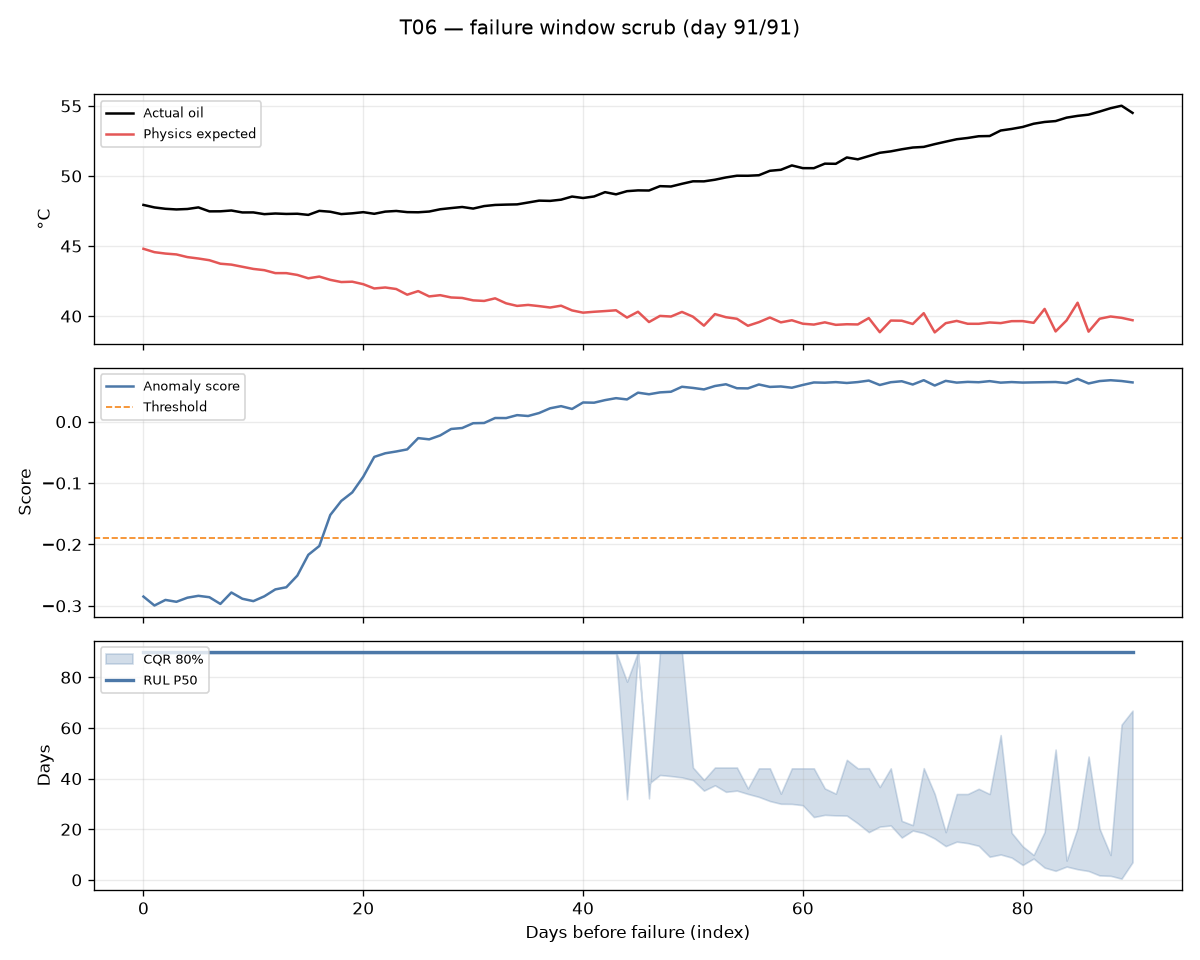
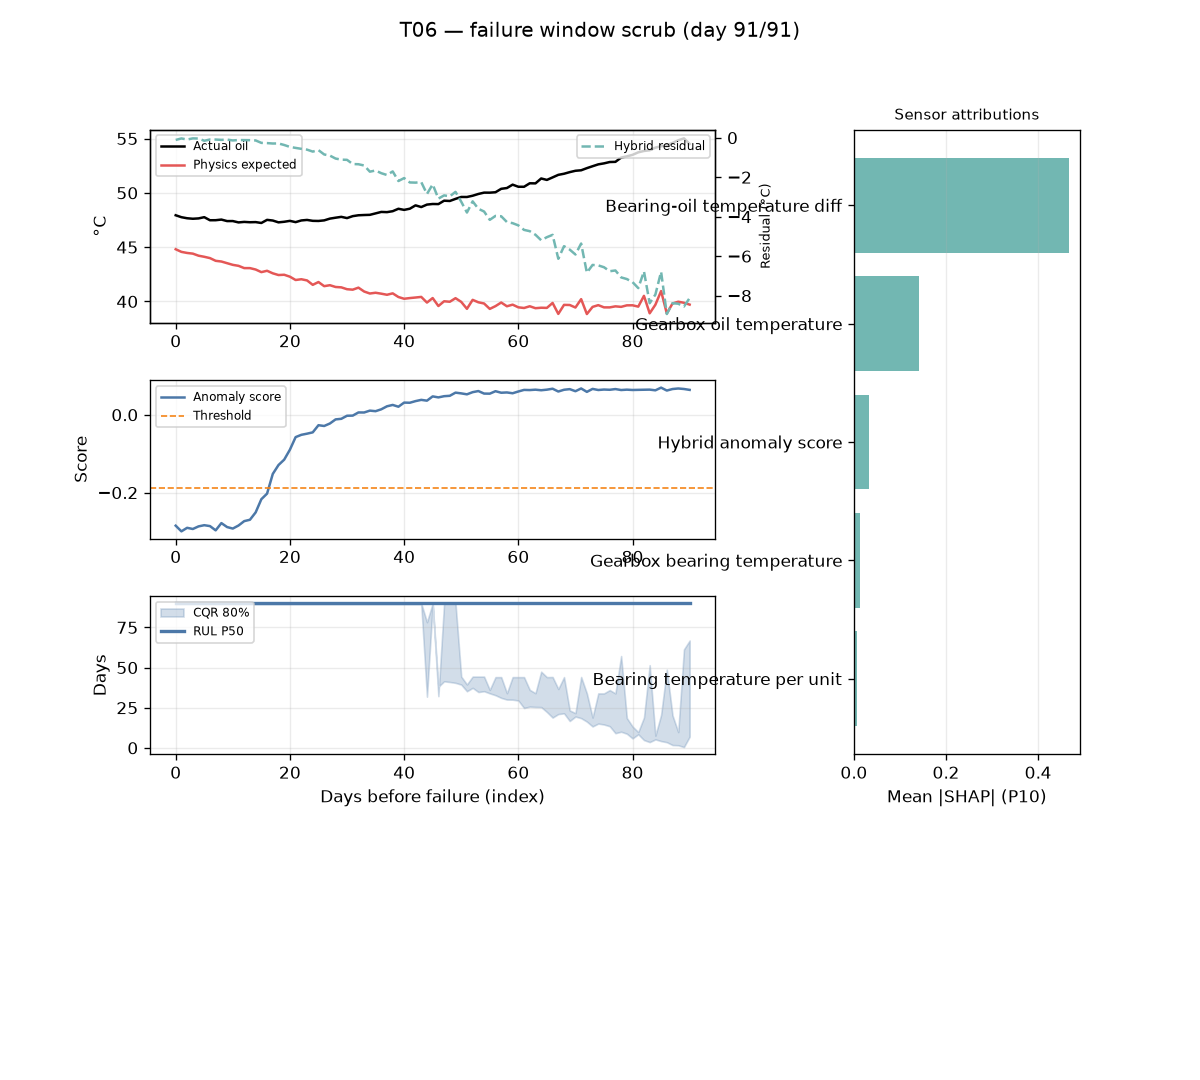
Serve P10 SHAP attributions and refresh dashboard README figures.

diff --git a/service/scripts/generate_dashboard_gif.py b/service/scripts/generate_dashboard_gif.py
@@ -10,38 +10,60 @@ import pandas as pd
 from PIL import Image
 
 ROOT = Path(__file__).resolve().parents[2]
-TIMELINE = Path(__file__).resolve().parents[1] / "models" / "timeline_demo.parquet"
+MODELS = Path(__file__).resolve().parents[1] / "models"
+TIMELINE = MODELS / "timeline_demo.parquet"
+SHAP_CSV = MODELS / "shap_sensor_ranking.csv"
 OUT_PNG = ROOT / "docs" / "figures" / "twin_dashboard.png"
 OUT_GIF = ROOT / "docs" / "figures" / "twin_dashboard.gif"
 
 
-def _frame(df: pd.DataFrame, *, day_idx: int, dpi: int = 100) -> Image.Image:
+def _p10_attributions() -> pd.DataFrame:
+    ranking = pd.read_csv(SHAP_CSV)
+    work = ranking.loc[ranking["learner"] == "p10"].sort_values("rank").head(5)
+    return work.iloc[::-1]
+
+
+def _frame(
+    df: pd.DataFrame,
+    *,
+    day_idx: int,
+    attrs: pd.DataFrame,
+    dpi: int = 100,
+) -> Image.Image:
     view = df.iloc[: day_idx + 1]
     if view.empty:
         view = df.iloc[:1]
     dates = np.arange(len(view))
     threshold = float(view["anomaly_threshold"].iloc[0])
 
-    fig, axes = plt.subplots(3, 1, figsize=(10, 8), dpi=dpi, sharex=True)
+    fig = plt.figure(figsize=(10, 9), dpi=dpi)
     fig.patch.set_facecolor("#ffffff")
+    gs = fig.add_gridspec(4, 2, height_ratios=[1.1, 0.9, 0.9, 0.85], width_ratios=[3, 1.2], hspace=0.35, wspace=0.35)
     fig.suptitle(
         f"{view['turbine_id'].iloc[0]} — failure window scrub (day {day_idx + 1}/{len(df)})",
         fontsize=12,
     )
 
-    ax0, ax1, ax2 = axes
+    ax0 = fig.add_subplot(gs[0, 0])
     ax0.plot(dates, view["oil_temp_actual"], color="black", label="Actual oil")
     ax0.plot(dates, view["oil_temp_physics"], color="#E45756", label="Physics expected")
     ax0.set_ylabel("°C")
-    ax0.legend(loc="upper left", fontsize=8)
+    ax0.legend(loc="upper left", fontsize=7)
     ax0.grid(alpha=0.25)
+    if "oil_residual" in view.columns:
+        ax0r = ax0.twinx()
+        ax0r.plot(dates, view["oil_residual"], color="#72B7B2", linestyle="--", label="Hybrid residual")
+        ax0r.set_ylabel("Residual (°C)", fontsize=8)
+        ax0r.legend(loc="upper right", fontsize=7)
 
+    ax1 = fig.add_subplot(gs[1, 0])
     ax1.plot(dates, view["anomaly_score"], color="#4C78A8", label="Anomaly score")
     ax1.axhline(threshold, color="#F58518", linestyle="--", linewidth=1, label="Threshold")
     ax1.set_ylabel("Score")
-    ax1.legend(loc="upper left", fontsize=8)
+    ax1.legend(loc="upper left", fontsize=7)
     ax1.grid(alpha=0.25)
 
+    ax2 = fig.add_subplot(gs[2, 0])
     if "rul_p50" in view.columns:
         ax2.fill_between(
             dates,
@@ -54,8 +76,15 @@ def _frame(df: pd.DataFrame, *, day_idx: int, dpi: int = 100) -> Image.Image:
         ax2.plot(dates, view["rul_p50"], color="#4C78A8", linewidth=2, label="RUL P50")
     ax2.set_ylabel("Days")
     ax2.set_xlabel("Days before failure (index)")
-    ax2.legend(loc="upper left", fontsize=8)
+    ax2.legend(loc="upper left", fontsize=7)
     ax2.grid(alpha=0.25)
+
+    ax3 = fig.add_subplot(gs[0:3, 1])
+    y_labels = [str(s)[:28] for s in attrs["sensor"]]
+    ax3.barh(y_labels, attrs["mean_abs_shap"], color="#72B7B2")
+    ax3.set_xlabel("Mean |SHAP| (P10)")
+    ax3.set_title("Sensor attributions", fontsize=9)
+    ax3.grid(axis="x", alpha=0.25)
 
     fig.tight_layout(rect=(0, 0, 1, 0.96))
     fig.canvas.draw()
@@ -67,17 +96,20 @@ def _frame(df: pd.DataFrame, *, day_idx: int, dpi: int = 100) -> Image.Image:
 def main() -> None:
     if not TIMELINE.exists():
         raise SystemExit(f"Missing {TIMELINE}; run service/scripts/export_models.py first")
+    if not SHAP_CSV.exists():
+        raise SystemExit(f"Missing {SHAP_CSV}; run service/scripts/export_models.py first")
     df = pd.read_parquet(TIMELINE)
+    attrs = _p10_attributions()
     t06 = df.loc[df["turbine_id"] == "T06"].sort_values("date").reset_index(drop=True)
     if t06.empty:
         t06 = df.sort_values("date").reset_index(drop=True)
 
     OUT_PNG.parent.mkdir(parents=True, exist_ok=True)
-    full = _frame(t06, day_idx=len(t06) - 1, dpi=120)
+    full = _frame(t06, day_idx=len(t06) - 1, attrs=attrs, dpi=120)
     full.save(OUT_PNG)
 
     indices = np.linspace(5, len(t06) - 1, num=min(8, len(t06)), dtype=int)
-    frames = [_frame(t06, day_idx=int(i)) for i in indices]
+    frames = [_frame(t06, day_idx=int(i), attrs=attrs) for i in indices]
     frames[0].save(
         OUT_GIF,
         save_all=True,

diff --git a/service/tests/test_api.py b/service/tests/test_api.py
@@ -80,6 +80,8 @@ def test_twin_rul_endpoint(models_dir: Path):
     payload = response.json()
     assert payload["rul_p10"] <= payload["rul_p50"] <= payload["rul_p90"]
     assert len(payload["attributions"]) == 5
+    assert all(item["learner"] == "p10" for item in payload["attributions"])
+    assert any(item["mean_abs_shap"] > 0 for item in payload["attributions"])
     assert payload["cqr80_lo"] <= payload["cqr80_hi"]
 
 

diff --git a/service/dashboard/app.py b/service/dashboard/app.py
@@ -122,7 +122,7 @@ if {"rul_p50", "cqr80_lo", "cqr80_hi"}.issubset(chart_df.columns):
 else:
     st.info("RUL columns missing from timeline export.")
 
-st.subheader("Sensor attributions (global P50 SHAP ranks)")
+st.subheader("Sensor attributions (global P10 mean |SHAP|)")
 try:
     attrs = pd.DataFrame(fetch_attributions())
     bar = (

diff --git a/service/src/twin_service/inference.py b/service/src/twin_service/inference.py
@@ -112,7 +112,7 @@ def _apply_conformal(
 def top_sensor_attributions(
     ranking: pd.DataFrame,
     *,
-    learner: str = "p50",
+    learner: str = "p10",
     limit: int = 5,
 ) -> list[SensorAttribution]:
     work = ranking.loc[ranking["learner"] == learner].sort_values("rank")

diff --git a/README.md b/README.md
@@ -1,6 +1,6 @@
 # wind-digital-twin
 
-Hybrid **digital twin** capstone (**v1.0.0**) for a wind-turbine **gearbox/drivetrain thermal** path: EDP SCADA → lumped thermal ODE → **learned residual corrector** → **hybrid-residual anomaly detector** → **probabilistic gearbox RUL** (P10/P50/P90 + MAPIE conformal bands) → **TreeSHAP sensor explanations** → **FastAPI + Streamlit** serving. RUL training and LOFO evaluation live in [grid-gnn-faults](https://github.com/mehmetertac/grid-gnn-faults); this repo ships the Week 10 physics path and the deployment layer.
+Hybrid **digital twin** capstone (**v1.0.0**) for a wind-turbine **gearbox/drivetrain thermal** path: EDP SCADA → lumped thermal ODE → **learned residual corrector** → **hybrid-residual anomaly detector** → **probabilistic gearbox RUL** (P10/P50/P90 + MAPIE conformal bands) → **TreeSHAP sensor explanations** → **FastAPI + Streamlit** serving. RUL training and LOFO evaluation live in [grid-gnn-faults-2](https://github.com/mehmetertac/grid-gnn-faults-2); this repo ships the Week 10 physics path and the deployment layer.
 
 Full taxonomy, fidelity levels, and pipeline diagram: **[docs/ARCHITECTURE.md](docs/ARCHITECTURE.md)**.
 
@@ -44,7 +44,7 @@ flowchart LR
     shap --> svc
 ```
 
-Week 10 scoring path: [`scripts/run_twin_pass.py`](scripts/run_twin_pass.py) → [`eval/twin_pass.py`](src/wind_digital_twin/eval/twin_pass.py). End-to-end RUL timeline (requires `pip install -e path/to/grid-gnn-faults`): [`scripts/run_twin.py`](https://github.com/mehmetertac/grid-gnn-faults/blob/main/scripts/run_twin.py) in grid-gnn-faults.
+Week 10 scoring path: [`scripts/run_twin_pass.py`](scripts/run_twin_pass.py) → [`eval/twin_pass.py`](src/wind_digital_twin/eval/twin_pass.py). End-to-end RUL timeline (requires `pip install -e path/to/grid-gnn-faults-2`): [`scripts/run_twin.py`](https://github.com/mehmetertac/grid-gnn-faults-2/blob/main/scripts/run_twin.py) in grid-gnn-faults-2.
 
 ## End-to-end twin timeline (T06)
 
@@ -79,7 +79,7 @@ Pre-failure **degradation** shows in the timeline residuals and anomaly score, n
 
 ## Gearbox RUL (probabilistic + conformal)
 
-Daily aggregates of hybrid residuals, anomaly score, and θ features feed LightGBM quantiles at **P10/P50/P90**, widened with **MAPIE CQR** at 80%/90%. Evaluation is **leave-one-failure-out** on four catalogued EDP gearbox events (three turbines). Design: [grid-gnn-faults/docs/RUL_DESIGN.md](https://github.com/mehmetertac/grid-gnn-faults/blob/main/docs/RUL_DESIGN.md).
+Daily aggregates of hybrid residuals, anomaly score, and θ features feed LightGBM quantiles at **P10/P50/P90**, widened with **MAPIE CQR** at 80%/90%. Evaluation is **leave-one-failure-out** on four catalogued EDP gearbox events (three turbines). Design: [grid-gnn-faults-2/docs/RUL_DESIGN.md](https://github.com/mehmetertac/grid-gnn-faults-2/blob/main/docs/RUL_DESIGN.md).
 
 | Event | Turbine | LOFO MAE (P50) | Pinball q0.5 | Raw [P10,P90] coverage | CQR 80% coverage | P10 first below 14 d (days before failure) |
 | --- | --- | --- | --- | --- | --- | --- |
@@ -88,7 +88,7 @@ Daily aggregates of hybrid residuals, anomaly score, and θ features feed LightG
 | T09 repair | T09 | — | — | — | — | — |
 | T09 noise | T09 | — | — | — | — | — |
 
-Em dashes until a fleet **scored CSV** is exported from this twin without refitting the ODE (`python scripts/run_twin.py` in grid-gnn-faults). **Coverage caveat:** split conformal guarantees are **marginal**; with four events, small calibration tails, and non-exchangeable run-to-failure windows, gaps versus 80%/90% are expected — not a tuning knob ([RUL_DESIGN.md](https://github.com/mehmetertac/grid-gnn-faults/blob/main/docs/RUL_DESIGN.md)).
+Em dashes until a fleet **scored CSV** is exported from this twin without refitting the ODE (`python scripts/run_twin.py` in grid-gnn-faults-2). **Coverage caveat:** split conformal guarantees are **marginal**; with four events, small calibration tails, and non-exchangeable run-to-failure windows, gaps versus 80%/90% are expected — not a tuning knob ([RUL_DESIGN.md](https://github.com/mehmetertac/grid-gnn-faults-2/blob/main/docs/RUL_DESIGN.md)).
 
 ![TreeSHAP — mean |SHAP| by sensor on P10 RUL (synthetic service export)](docs/figures/shap_sensor_ranking.png)
 
@@ -136,12 +136,16 @@ Or `docker compose -f service/docker-compose.yml up --build`.
 | Endpoint | Role |
 | --- | --- |
 | `POST /twin/score` | SCADA window → physics-expected oil temp, hybrid residual, anomaly score |
-| `POST /twin/rul` | Daily features → P10/P50/P90, CQR band, top-five sensor attributions |
+| `POST /twin/rul` | Daily features → P10/P50/P90, CQR band, top-five **P10** sensor attributions |
 | `GET /twin/series` | Precomputed failure-window timeline for the dashboard scrubber |
 
-Gearbox RUL training, LOFO conformal evaluation, and TreeSHAP live in [grid-gnn-faults](https://github.com/mehmetertac/grid-gnn-faults). Week 11 reflection: [WEEK_11_REFLECTION.md](https://github.com/mehmetertac/grid-gnn-faults/blob/main/WEEK_11_REFLECTION.md).
+Gearbox RUL training, LOFO conformal evaluation, and TreeSHAP live in [grid-gnn-faults-2](https://github.com/mehmetertac/grid-gnn-faults-2). Week 11 reflection: [WEEK_11_REFLECTION.md](https://github.com/mehmetertac/grid-gnn-faults-2/blob/main/WEEK_11_REFLECTION.md).
 
 ![Twin dashboard — T06 failure window scrub](docs/figures/twin_dashboard.png)
+
+![Twin dashboard scrub animation](docs/figures/twin_dashboard.gif)
+
+Regenerate PNG/GIF (residual + P10 SHAP bar): `python service/scripts/generate_dashboard_gif.py` after `python service/scripts/export_models.py`.
 
 ## Limitations (honest)
 

diff --git a/docs/ARCHITECTURE.md b/docs/ARCHITECTURE.md
@@ -1,6 +1,6 @@
 # Capstone architecture — hybrid drivetrain digital twin
 
-Track B capstone (**v1.0.0**): a **hybrid digital twin** for wind-turbine **gearbox/drivetrain thermal** behavior. SCADA from the EDP open dataset (same backbone as [wind-turbine-anomaly](https://github.com/mehmetertac/wind-turbine-anomaly)) feeds physics-informed expected temperature, learned residual correction, anomaly detection, probabilistic RUL with conformal intervals, SHAP explanations, and FastAPI/Streamlit serving. RUL modules: [grid-gnn-faults](https://github.com/mehmetertac/grid-gnn-faults).
+Track B capstone (**v1.0.0**): a **hybrid digital twin** for wind-turbine **gearbox/drivetrain thermal** behavior. SCADA from the EDP open dataset (same backbone as [wind-turbine-anomaly](https://github.com/mehmetertac/wind-turbine-anomaly)) feeds physics-informed expected temperature, learned residual correction, anomaly detection, probabilistic RUL with conformal intervals, SHAP explanations, and FastAPI/Streamlit serving. RUL modules: [grid-gnn-faults-2](https://github.com/mehmetertac/grid-gnn-faults-2).
 
 ---
 
@@ -48,7 +48,7 @@ flowchart LR
     shap --> svc
 ```
 
-Drivers: [`scripts/run_twin_pass.py`](../scripts/run_twin_pass.py) (Week 10 scoring + figures); [`service/`](../service/) (deployment); RUL LOFO in grid-gnn-faults. Headline figures: [`docs/figures/twin_timeline_T06.png`](figures/twin_timeline_T06.png), [`twin_dashboard.png`](figures/twin_dashboard.png).
+Drivers: [`scripts/run_twin_pass.py`](../scripts/run_twin_pass.py) (Week 10 scoring + figures); [`service/`](../service/) (deployment); RUL LOFO in grid-gnn-faults-2. Headline figures: [`docs/figures/twin_timeline_T06.png`](figures/twin_timeline_T06.png), [`twin_dashboard.png`](figures/twin_dashboard.png).
 
 ### Layer contracts
 
@@ -117,7 +117,7 @@ Ported code lives under `src/wind_digital_twin/{physics,residual,anomaly}` — u
 | **10 (ODE backbone)** | Lumped-parameter thermal ODE in `physics/lumped_ode.py`; optional capped NN on \(T_{\mathrm{eq}}\) (`--nn-correction`) |
 | **10 (residual)** | Learned residual model + hybrid-residual IF; ODE surrogate notebook |
 | **11 (integration)** | End-to-end twin pass, timeline + RMSE figures, README maintenance narrative |
-| **11 (RUL + serve)** | Quantile RUL, CQR, SHAP in grid-gnn-faults; FastAPI + Streamlit in `service/` |
+| **11 (RUL + serve)** | Quantile RUL, CQR, SHAP in grid-gnn-faults-2; FastAPI + Streamlit in `service/` |
 | **11 (capstone tag)** | README v1.0.0, architecture diagram through serving layer |
 | **Friday** | [`WEEK_10_REFLECTION.md`](../WEEK_10_REFLECTION.md) — honest uncertainty + leakage checklist + maintenance reading |
 

diff --git a/handover.md b/handover.md
@@ -1,8 +1,8 @@
 # handover.md
 
-**Last updated:** 2026-10-17
+**Last updated:** 2026-10-27
 
-Track B capstone **v1.0.0**: hybrid drivetrain digital twin with Week 11 **FastAPI + Streamlit** serving. Gearbox RUL, CQR, and SHAP live in [grid-gnn-faults](https://github.com/mehmetertac/grid-gnn-faults). IEEE 39-bus GNN demo lives in [grid-gnn-faults](https://github.com/mehmetertac/grid-gnn-faults) only.
+Track B capstone **v1.0.0**: hybrid drivetrain digital twin with Week 11 **FastAPI + Streamlit** serving. Gearbox RUL, CQR, and SHAP live in [grid-gnn-faults-2](https://github.com/mehmetertac/grid-gnn-faults-2). IEEE 39-bus GNN demo lives in [grid-gnn-faults-2](https://github.com/mehmetertac/grid-gnn-faults-2) only.
 
 ---
 
@@ -13,7 +13,8 @@ Track B capstone **v1.0.0**: hybrid drivetrain digital twin with Week 11 **FastA
 | Git remote `origin` → [wind-digital-twin](https://github.com/mehmetertac/wind-digital-twin) | Done |
 | [docs/ARCHITECTURE.md](docs/ARCHITECTURE.md) — full stack through RUL, conformal, SHAP, service | Done |
 | End-to-end twin pass + headline figures | Done (synthetic EDP) |
-| **`service/`** — FastAPI, Streamlit, Docker, CI | Done |
+| **`service/`** — FastAPI, Streamlit, Docker, CI; P10 SHAP attributions in API/UI | Done |
+| [docs/figures/twin_dashboard.gif](docs/figures/twin_dashboard.gif) — scrub animation with residual + SHAP | Done |
 | README v1.0.0 — hybrid RMSE table, RUL placeholder table, SHAP figure, limitations | Done |
 | [docs/figures/shap_sensor_ranking.png](docs/figures/shap_sensor_ranking.png) | Done (synthetic export) |
 | Real EDP re-export of serving models + filled RUL metrics table | Pending when data downloaded |
@@ -23,11 +24,11 @@ Track B capstone **v1.0.0**: hybrid drivetrain digital twin with Week 11 **FastA
 
 ## Suggested next step
 
-1. Re-run `export_models.py` after real EDP download (do not refit ODE in grid-gnn-faults).
-2. Export scored CSV and fill LOFO RUL / lead-time table in README from grid-gnn-faults CLI.
+1. Re-run `export_models.py` after real EDP download (do not refit ODE in grid-gnn-faults-2).
+2. Export scored CSV and fill LOFO RUL / lead-time table in README from grid-gnn-faults-2 CLI.
 
 ---
 
 ## Key commit
 
-`1b38e11` — Capstone README v1.0.0, SHAP figure, venv pre-commit pytest (prior: `3930389` serving).
+`c1d99a1` — P10 attributions, dashboard figure/GIF refresh (prior: `1b38e11` README v1.0.0).
